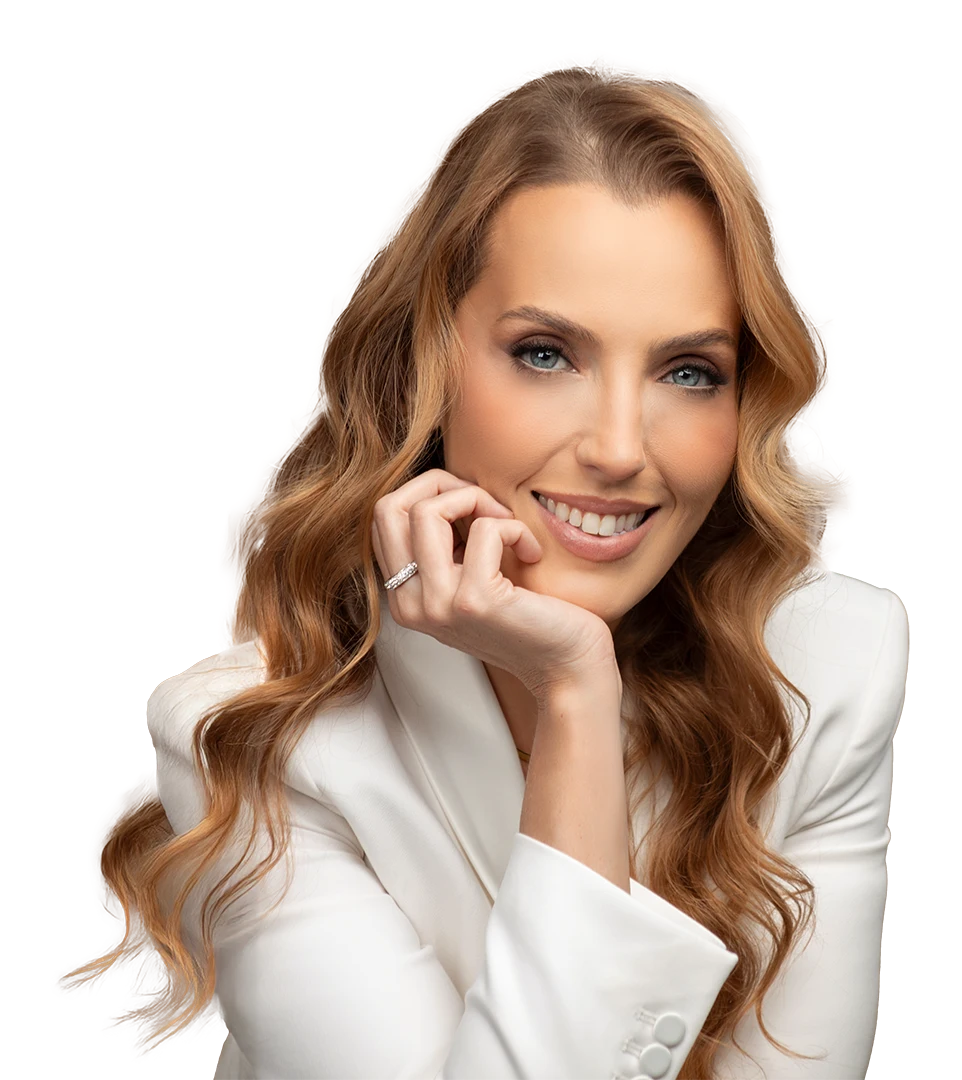
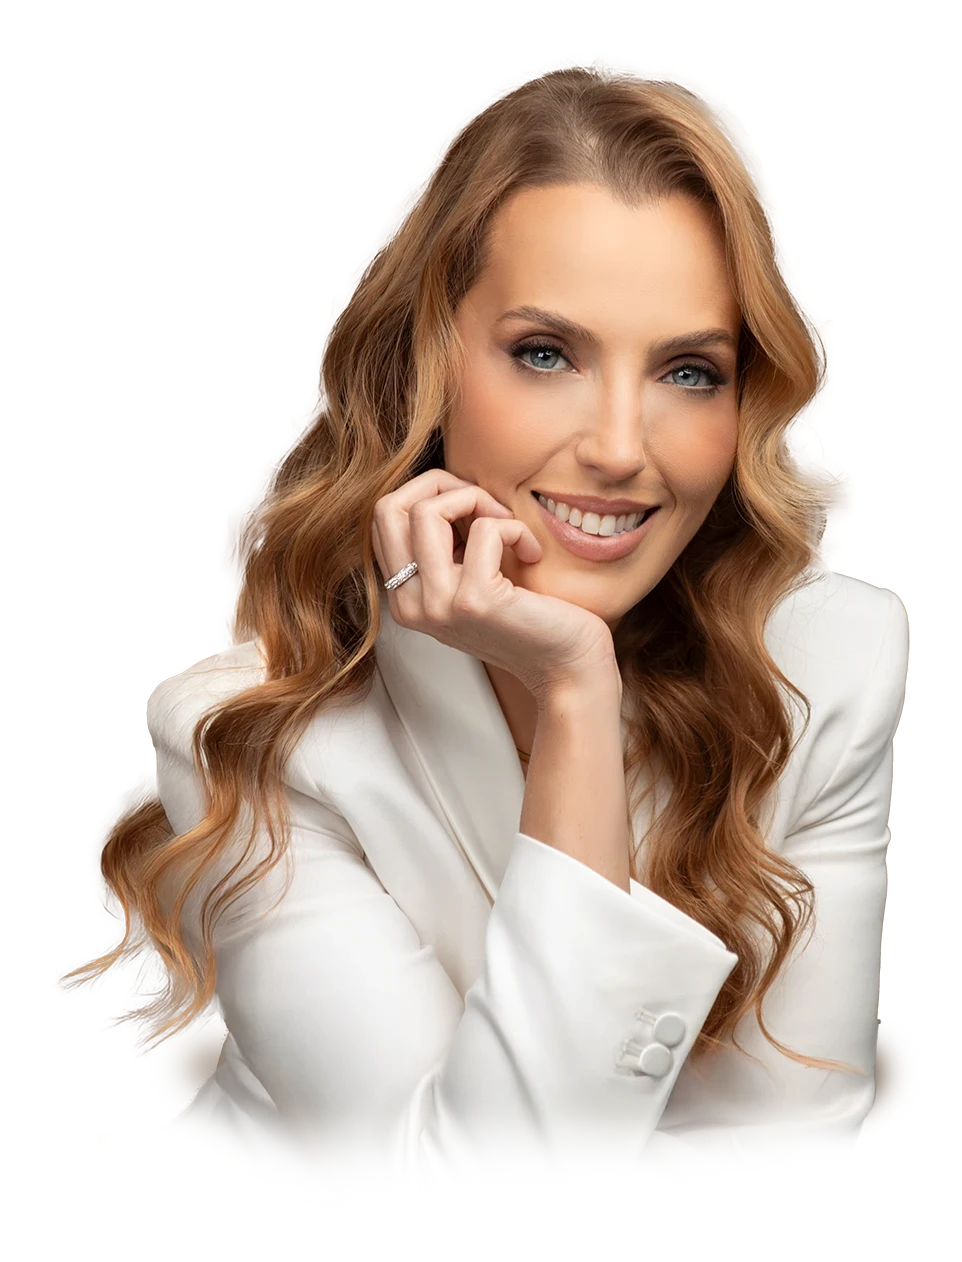
upload

diff --git a/src/components/pages/home-hero.tsx b/src/components/pages/home-hero.tsx
@@ -7,30 +7,34 @@ export default function HomeHero() {
 
     return (
         <>
-            <div className="flex flex-col items-center gap-8 p-4 pt-20 w-full relative lg:pt-0 lg:absolute lg:max-w-160 lg:top-1/2 lg:-translate-y-1/2 lg:right-12 z-5">
+            <div className="flex flex-col items-center gap-8 p-4 pt-20 m-auto w-full relative md:max-w-100 lg:pt-0 lg:absolute lg:max-w-128 xl:max-w-160 lg:top-1/2 lg:-translate-y-1/2 lg:right-12 z-5">
                 <Image src="/assets/logo.svg" alt="imagem" width={500} height={500} className="w-full h-auto" />
-                <ButtonOpenUrl url={whatsappUrl} className="w-fit items-center gap-2 px-4 !py-6 text-2xl text-black border-2 border-black hidden lg:flex rounded-full">
-                    <FaWhatsapp size={28} /> Agendar consulta
+                <p className="text-6xl text-center text-white font-light drop-shadow-md font-caladea font-bold hidden lg:block">
+                    <span>Você em harmonia<br /> com a </span><strong>sua beleza</strong>
+                </p>
+                <ButtonOpenUrl url={whatsappUrl} className="w-fit items-center gap-2 px-4 !py-6 text-2xl text-white border-2 border-white lg:!py-8 lg:text-3xl lg:text-white lg:border-3 hidden md:flex rounded-full">
+                    <FaWhatsapp size={28} className="lg:hidden" />
+                    <FaWhatsapp size={36} className="hidden lg:block" /> Agendar consulta
                 </ButtonOpenUrl>
             </div>
-            <div className="absolute top-0 left-0 w-full h-full lg:w-auto">
+            <div className="absolute top-0 left-0 w-full h-full md:w-auto">
                 <Image src="/assets/1.svg" alt="imagem" width={1000} height={1000} className="rotate-slow -mt-40 w-full h-full blur-md opacity-80" />
             </div>
             <div className="absolute inset-x-0 bottom-0">
-                <div className="w-full h-full flex items-end relative z-20 p-8 lg:p-20 pb-20">
-                    <div className="flex flex-col gap-8">
-                        <p className="text-4xl lg:text-6xl text-white font-light drop-shadow-lg font-caladea font-bold">
-                            <span>Você em harmonia<br className="lg:hidden" /> com a </span><strong>sua beleza</strong>
+                <div className="w-full h-full flex items-end relative z-20 p-8 md:p-20 pb-20">
+                    <div className="flex flex-col gap-8 h-1/5">
+                        <p className="text-4xl md:text-6xl text-white font-light drop-shadow-md font-caladea font-bold lg:hidden">
+                            <span>Você em harmonia<br  /> com a </span><strong>sua beleza</strong>
                         </p>
-                        <ButtonOpenUrl url={whatsappUrl} className="flex w-fit items-center gap-2 px-4 !py-6 text-2xl text-white border-2 lg:hidden rounded-full">
+                        <ButtonOpenUrl url={whatsappUrl} className="flex w-fit items-center gap-2 px-4 !py-6 text-2xl text-white border-2 md:hidden rounded-full">
                             <FaWhatsapp size={28} /> Agendar consulta
                         </ButtonOpenUrl>
                     </div>
                 </div>
-                <div className="absolute inset-0 z-10 bg-gradient-to-b from-transparent via-[#a9856d] via-30% to-[#a9856d] lg:opacity-80" />
+                <div className="absolute inset-0 z-10 bg-gradient-to-b from-transparent via-[#a9856d] via-60% to-[#a9856d]" />
             </div>
-            <Image src="/assets/home-carol.webp" alt="imagem" width={1000} height={1000} className="absolute bottom-0 -left-10 z-1 h-full w-auto object-contain object-left-bottom pb-24 lg:pb-0 lg:left-30" />
-            <Image src="/assets/home-background.webp" alt="imagem" fill className="absolute opacity-50 blur-sm bottom-0 -left-10 z-0 h-full w-auto object-cover object-right-bottom pb-24 lg:pb-0 lg:left-30" />
+            <Image src="/assets/home-carol.webp" alt="imagem" width={1000} height={1000} className="transition-all duration-300 absolute bottom-16 sm:bottom-0 md:bottom-8 -left-5 z-1 h-full max-h-[80vh] md:max-h-[60vh] lg:max-h-[90vh] w-auto object-contain object-left-bottom pb-24 md:pb-0 md:left-10 xl:left-30" />
+            <Image src="/assets/home-background.webp" alt="imagem" fill className="absolute opacity-50 blur-sm bottom-0 -left-10 z-0 h-full w-auto object-cover object-right-bottom pb-24 md:pb-0 md:left-30" />
         </>
     )
 } 

diff --git a/src/components/pages/home-about.tsx b/src/components/pages/home-about.tsx
@@ -8,14 +8,17 @@ export default function HomeAboutDoctor() {
     const images = loadImagesFromDirectoryAlt('/assets/images/home-about', 'Dra Carolina Macedo');
     return (
         <div className="relative">
-            <div className="w-full h-10 lg:h-16 bg-[#957665]"/>
+            <div className="w-full h-10 lg:h-16 bg-[#957665]" />
             <div className="absolute w-full h-full lg:max-h-120 top-0">
-                    <Image src="/assets/carolpg.webp" alt="Dra. Carolina Macedo" fill className="object-contain object-top absolute top-0 left-0 z-10" />
+                <Image src="/assets/carolpg.webp" alt="Dra. Carolina Macedo" fill className="object-contain object-top absolute top-0 left-0 z-5" />
             </div>
-            <Page className={`bg-[#121212] ${DEFAULT_PADDING} pt-50 lg:pt-100`} title={<h1 className="text-white">Conheça a <span className="text-primary">Dra. Carolina Macedo</span></h1>}>
+            <Page className={`bg-[#121212] ${DEFAULT_PADDING} pt-50 lg:pt-100`} title={<h1 className="text-white">Conheça a Dra. <span className="text-primary"><br />Carolina Macedo</span></h1>}>
                 <div className="flex flex-col gap-8 relative">
-                <div className="absolute -top-60 z-10 left-0 w-full h-1/4 bg-gradient-to-b from-transparent via-[#121212] via-50% to-[#121212]" />
-                    <div className="flex flex-col gap-6 text-lg text-white relative z-10">
+                    <div className="absolute -top-60 md:-top-20 lg:-top-60 z-10 left-0 w-full h-3/4 flex flex-col">
+                        <div className="relative w-full h-1/2 bg-gradient-to-b from-transparent via-[#121212] via-50% to-[#121212]" />
+                        <div className="w-full h-full bg-[#121212]" />
+                    </div>
+                    <div className="flex flex-col gap-6 text-lg text-white relative z-15">
                         <p>
                             <strong>Dra. Carolina Macedo</strong> é <strong>Biomédica Esteta</strong>, <strong>Mestre pela USP</strong>, <strong>Pós-Graduada em Saúde Estética</strong>. Sempre em constante atualização, vem trilhando uma carreira repleta de aperfeiçoamento para melhor atender seus pacientes. Já participou de diversos <strong>congressos nacionais e internacionais</strong>, bem como se especializou em inúmeros cursos voltados para conteúdos inovadores da sua área de atuação.
                         </p>
@@ -29,8 +32,8 @@ export default function HomeAboutDoctor() {
                         </p>
                     </div>
 
-                    <h1 className="text-primary text-3xl font-caladea">Atualização constante, <br/><span className="text-white">nos maiores eventos e congressos da área</span></h1>
-                    <div className="pt-10 pb-20">
+                    <h1 className="text-primary text-3xl font-caladea relative z-15 py-10">Atualização constante, <br /><span className="text-white">nos maiores eventos e congressos da área</span></h1>
+                    <div className="pt-10 pb-20 relative z-10">
                         <CarouselHighlight images={images} />
                     </div>
                 </div>

diff --git a/src/components/ui/menu.tsx b/src/components/ui/menu.tsx
@@ -8,6 +8,10 @@ export default function Menu() {
     const [isVisible, setIsVisible] = useState(true)
     const [lastScrollY, setLastScrollY] = useState(0)
 
+    function goHome() {
+        window.location.href = '/'
+    }
+
     useEffect(() => {
         const handleScroll = () => {
             const currentScrollY = window.scrollY
@@ -43,7 +47,7 @@ export default function Menu() {
                 })
             } else {
                 // Se não estiver na página inicial, redireciona para /
-                window.location.href = '/'
+                goHome()
             }
         } else {
             // Para outras seções, mantém o comportamento atual
@@ -62,8 +66,8 @@ export default function Menu() {
         <nav className={`w-full lg:text-xl p-8 transition-all duration-300 fixed top-0 right-0 z-100 
             ${isSticky ? 'bg-gradient-to-b from-[#d2b9a5] via-[#d2b9a5] via-100% to-[transparent]' : 'bg-transparent'}
             ${isVisible ? 'translate-y-0' : '-translate-y-full'}`}>
-            <div className="flex flex-row items-center justify-between">
-                <div className="hidden lg:flex">
+            <div className="flex flex-row items-center justify-center lg:justify-between">
+                <div className="hidden lg:flex cursor-pointer" onClick={goHome}>
                     <Image src="/assets/logo.svg" alt="logo" width={100} height={100} />
                 </div>
                 <ul className="flex flex-row items-start divide-y-0 divide-x-2 divide-black">

diff --git a/src/components/pages/home-contact.tsx b/src/components/pages/home-contact.tsx
@@ -11,8 +11,8 @@ export default function HomeContact() {
         <Page title={<h1>Entre em <span className="text-primary">contato</span></h1>}>
             <div className="py-8">
                 <div className="space-y-8">
-                    <div>
-                        <ButtonOpenUrl url={whatsappUrl} className="flex w-full items-center justify-center gap-2 px-4 !py-8 text-2xl text-white rounded-full drop-shadow-lg bg-primary">
+                    <div className="flex items-center justify-center">
+                        <ButtonOpenUrl url={whatsappUrl} className="flex w-full max-w-128 items-center justify-center gap-2 px-4 !py-8 text-2xl text-white rounded-full drop-shadow-lg bg-primary">
                             <FaWhatsapp size={28} /> Agendar consulta
                         </ButtonOpenUrl>
                     </div>

diff --git a/src/app/tratamentos/[tipo_procedimento]/[nome_procedimento]/page.tsx b/src/app/tratamentos/[tipo_procedimento]/[nome_procedimento]/page.tsx
@@ -39,9 +39,9 @@ const Tratamento = async ({ params }: TratamentoProps) => {
     const html = await convertWordFileToHtml(`/assets/content/tratamentos/${decodeURIComponent(tipo_procedimento)}/${decodeURIComponent(nome_procedimento)}/texto.docx`);
 
     return (
-        <Section id="home" className="min-h-[100vh] relative bg-gradient-to-b from-[#d2b9a5] via-[#d2b9a5] via-35% to-[#a9856d]">
-            <Page className="pt-18" title={<h1>{capitalizeText(nome_procedimento)}</h1>}>
-                <div className="bg-white rounded-lg p-4">
+        <Section id="home" className="min-h-[100vh] bg-white">
+            <Page className="pt-18 lg:pt-10">
+                <div className="rounded-lg p-4">
                     <div dangerouslySetInnerHTML={{ __html: html.html }} />
                 </div>
             </Page>
